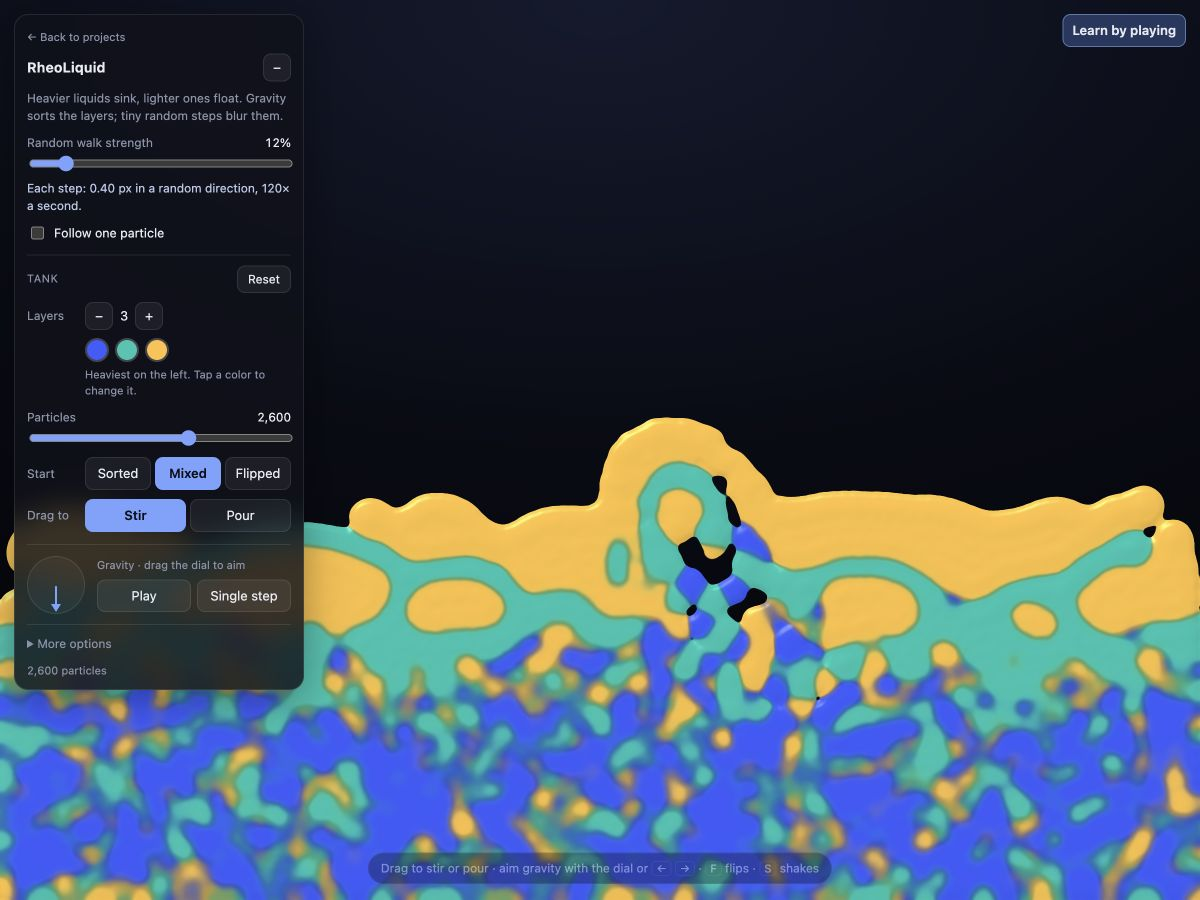
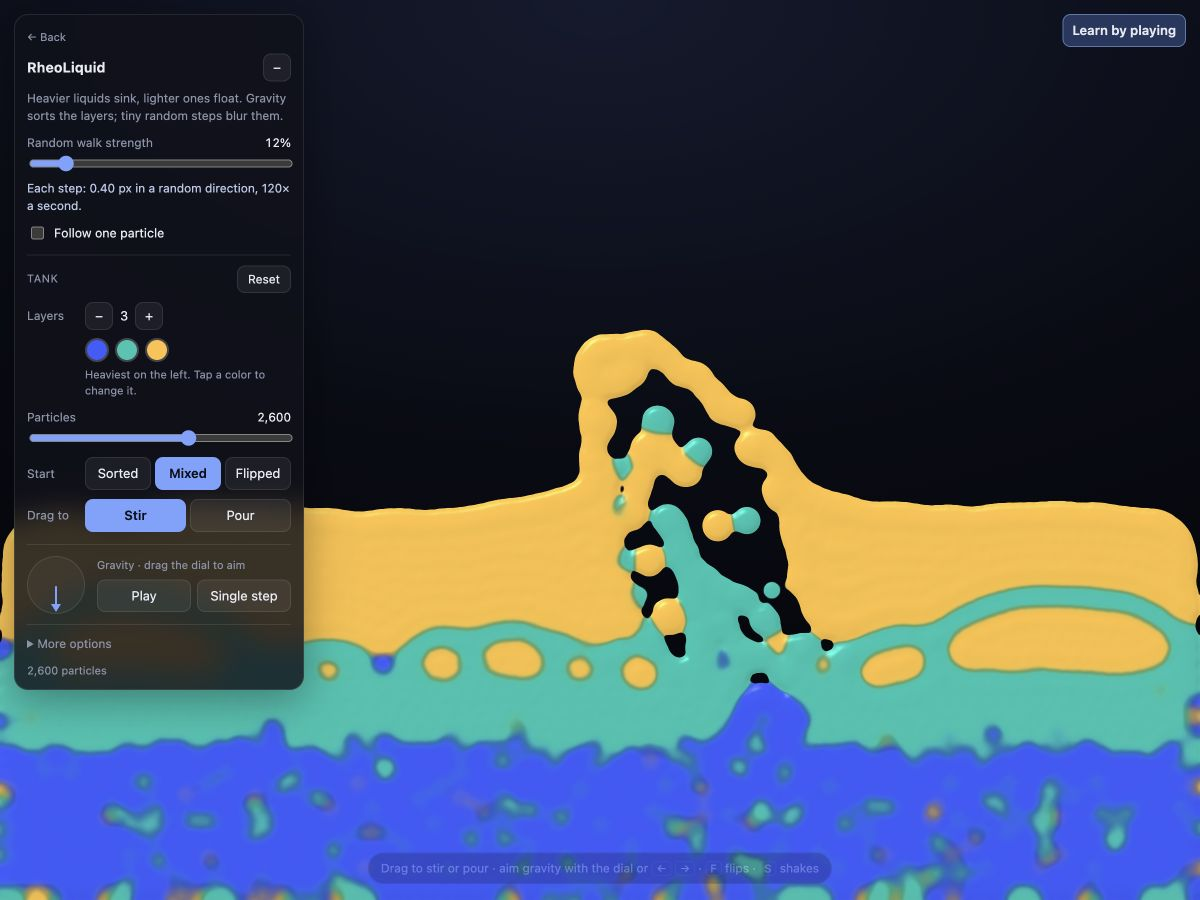
Refresh RheoLiquid thumbnail and shorten back link

Changed region(s): [[0.0, 0.3422, 1.0, 1.0], [0.8017, 0.56, 0.8633, 0.5911], [0.0617, 0.0311, 0.0925, 0.0622]]

diff --git a/index.html b/index.html
@@ -151,7 +151,7 @@
           <h2 class="section-heading" id="projects-title"><button class="section-title" type="button" aria-expanded="true" aria-controls="projects-content"><span class="section-title-text">PROJECTS</span><i class="fa-solid fa-angle-up" aria-hidden="true"></i></button></h2>
           <div class="section-body" id="projects-content">
             <div class="concept-project-grid">
-              <article class="concept-project"><a href="rheoliquid.html"><div class="concept-project-media"><img src="img/rheoliquid-simulation.jpg" data-fallback="img/project.svg" alt="RheoLiquid simulation showing blue, teal, and yellow fluid layers being stirred, with interactive controls" width="1200" height="900" loading="lazy" decoding="async"></div><div class="concept-project-copy"><small class="concept-project-meta">Fluid Simulation 2026 - Material Learning</small><h3>RheoLiquid</h3><p>An interactive playground for exploring liquid layers and particle motion through hands-on controls and guided experiments.</p><span class="concept-project-action">Try interactive project →</span></div></a></article>
+              <article class="concept-project"><a href="rheoliquid.html"><div class="concept-project-media"><img src="img/rheoliquid-simulation.jpg?v=f192f4809e27" data-fallback="img/project.svg" alt="RheoLiquid simulation showing blue, teal, and yellow fluid layers being stirred, with interactive controls" width="1200" height="900" loading="lazy" decoding="async"></div><div class="concept-project-copy"><small class="concept-project-meta">Fluid Simulation 2026 - Material Learning</small><h3>RheoLiquid</h3><p>An interactive playground for exploring liquid layers and particle motion through hands-on controls and guided experiments.</p><span class="concept-project-action">Try interactive project →</span></div></a></article>
               <article class="concept-project"><a href="https://rheoverse.cearto.com" target="_blank" rel="noopener noreferrer"><div class="concept-project-media concept-project-media-rheoverse"><img src="img/rheoverse-logo.png" data-fallback="img/project.svg" alt="Rheoverse logo with connected teal and orange circles" width="386" height="100" loading="lazy" decoding="async"></div><div class="concept-project-copy"><small class="concept-project-meta">Open Platform 2026 - Material Interaction</small><h3>Rheoverse</h3><p class="concept-project-award"><i class="fa-solid fa-star" aria-hidden="true"></i>Supported by NSF</p><p>Interactive tools for exploring and sharing material recipes, connecting low-cost rheometry with sensor data and a community library of material behaviors.</p><span class="concept-project-action">Explore project →</span></div></a></article>
               <article class="concept-project"><a href="https://github.com/The-Hybrid-Atelier/RheoBoard" target="_blank" rel="noopener noreferrer"><div class="concept-project-media"><img src="img/rheoboard-v105.png" data-fallback="img/project.svg" alt="Angled 3D render of the RheoBoard v1.05 circuit board with two pumps" width="1084" height="966" loading="lazy" decoding="async"></div><div class="concept-project-copy"><small class="concept-project-meta">Open Hardware 2026 · Material Sensing</small><h3>RheoBoard</h3><p class="concept-project-award"><i class="fa-brands fa-osi" aria-hidden="true"></i>Part of Rheoverse - Certified by OSHWA</p><p>An open-source hardware platform for pneumatic material measurements that runs retraction-extrusion pulses and streams pressure traces.</p><span class="concept-project-action">View hardware &amp; code →</span></div></a></article>
               <article class="concept-project"><div class="concept-project-inner"><div class="concept-project-media"><img src="img/hero_lab/spg.png" data-fallback="img/project.svg" alt="" width="1405" height="875" loading="lazy" decoding="async"></div><div class="concept-project-copy"><small class="concept-project-meta">IEEE SENSOR 2026 · BIOSENSING · WEARABLE</small><h3>Speckle Plethysmography Device</h3><p>A SPG wearable sensor for monitoring pulsatile blood flow across multiple optical configurations and anatomical sites.</p><span class="concept-project-action">Research in progress</span></div></div></article>

diff --git a/rheoliquid.html b/rheoliquid.html
@@ -141,7 +141,7 @@
 <div id="stage"><canvas id="g" aria-hidden="true"></canvas><canvas id="c" role="img" aria-label="Interactive liquid layers and particle motion"></canvas><canvas id="o" aria-hidden="true"></canvas></div>
 
 <div class="panel" id="panel">
-  <a class="portfolio-link" href="./#projects">← Back to projects</a>
+  <a class="portfolio-link" href="./#projects">← Back</a>
   <div class="head"><div class="title">RheoLiquid</div><button class="icon" id="collapse" title="Hide panel" aria-label="Hide controls" aria-expanded="true">–</button></div>
   <div class="body">
     <p class="desc" id="desc"></p>
